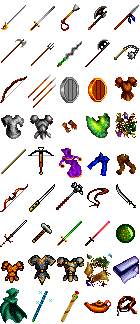
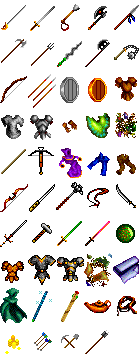
Add a few item graphics

diff --git a/osx/classes/item.cpp b/osx/classes/item.cpp
@@ -155,7 +155,7 @@ cItemRec::cItemRec(long preset){
 			charges = 0;
 			type = eWeapType::EDGED;
 			magic_use_type = 0;
-			graphic_num = 45;
+			graphic_num = 55;
 			value = 2;
 			weight = 7;
 			full_name = "Bronze Knife";
@@ -171,7 +171,7 @@ cItemRec::cItemRec(long preset){
 			charges = 0;
 			type = eWeapType::NOT_MELEE;
 			magic_use_type = 0;
-			graphic_num = 65;
+			graphic_num = 75;
 			value = 2;
 			weight = 20;
 			full_name = "Crude Buckler";
@@ -203,7 +203,7 @@ cItemRec::cItemRec(long preset){
 			charges = 12;
 			type = eWeapType::NOT_MELEE;
 			magic_use_type = 0;
-			graphic_num = 47;
+			graphic_num = 57;
 			value = 1;
 			weight = 1;
 			full_name = "Arrows";
@@ -235,7 +235,7 @@ cItemRec::cItemRec(long preset){
 			charges = 0;
 			type = eWeapType::NOT_MELEE;
 			magic_use_type = 0;
-			graphic_num = 66;
+			graphic_num = 76;
 			value = 6;
 			weight = 15;
 			full_name = "Leather Helm";
@@ -251,7 +251,7 @@ cItemRec::cItemRec(long preset){
 			charges = 0;
 			type = eWeapType::NOT_MELEE;
 			magic_use_type = 0;
-			graphic_num = 62;
+			graphic_num = 72;
 			value = 0;
 			weight = 0;
 			full_name = "Food";
@@ -267,7 +267,7 @@ cItemRec::cItemRec(long preset){
 			charges = 0;
 			type = eWeapType::NOT_MELEE;
 			magic_use_type = 0;
-			graphic_num = 53;
+			graphic_num = 63;
 			value = 0;
 			weight = 0;
 			full_name = "";
@@ -283,7 +283,7 @@ cItemRec::cItemRec(long preset){
 			charges = 1;
 			type = eWeapType::NOT_MELEE;
 			magic_use_type = 0;
-			graphic_num = 50;
+			graphic_num = 60;
 			value = 0;
 			weight = 8;
 			full_name = "Potion";
@@ -307,7 +307,9 @@ cItemRec& cItemRec::operator = (legacy::item_record_type& old){
 	if(graphic_num >= 150) // custom item graphic
 		graphic_num += 850;
 	else if(graphic_num == 59) // duplicate mushroom graphic
-		graphic_num = 64;
+		graphic_num = 74;
+	else if(graphic_num >= 45) // small graphics were moved up to make a bit more room for new large graphics
+		graphic_num += 10;
 	ability = (eItemAbil) old.ability;
 	ability_strength = old.ability_strength;
 	type_flag = old.type_flag;

diff --git a/osx/boe.graphutil.cpp b/osx/boe.graphutil.cpp
@@ -399,7 +399,7 @@ void draw_items(location where){
 				from_rect = get_item_template_rect(univ.town.items[i].graphic_num);
 				to_rect = coord_to_rect(where_draw.x,where_draw.y);
 				terrain_there[where_draw.x][where_draw.y] = -1;
-				if(univ.town.items[i].graphic_num >= 45) {
+				if(univ.town.items[i].graphic_num >= 55) {
 					to_rect.inset(5,9);
 					rect_draw_some_item(tiny_obj_gworld, from_rect, terrain_screen_gworld, to_rect,sf::BlendAlpha);
 				}else

diff --git a/osx/dialogxml/pict.cpp b/osx/dialogxml/pict.cpp
@@ -776,7 +776,7 @@ void cPict::drawPresetItem(short num, RECT to_rect){
 	fill_rect(*inWindow, to_rect, sf::Color::Black);
 	std::shared_ptr<sf::Texture> from_gw;
 	RECT from_rect = {0,0,18,18};
-	if (num < 45) {
+	if (num < 55) {
 		from_gw = getSheet(SHEET_ITEM);
 		from_rect = calc_rect(num % 5, num / 5);
 	}else{

diff --git a/osx/boe.newgraph.cpp b/osx/boe.newgraph.cpp
@@ -722,7 +722,7 @@ void click_shop_rect(RECT area_rect)
 static graf_pos calc_item_rect(int num,RECT& to_rect) {
 	RECT from_rect = {0,0,18,18};
 	sf::Texture *from_gw = &tiny_obj_gworld;
-	if (num < 45) {
+	if (num < 55) {
 		from_gw = &items_gworld;
 		from_rect = calc_rect(num % 5, num / 5);
 	}else{
